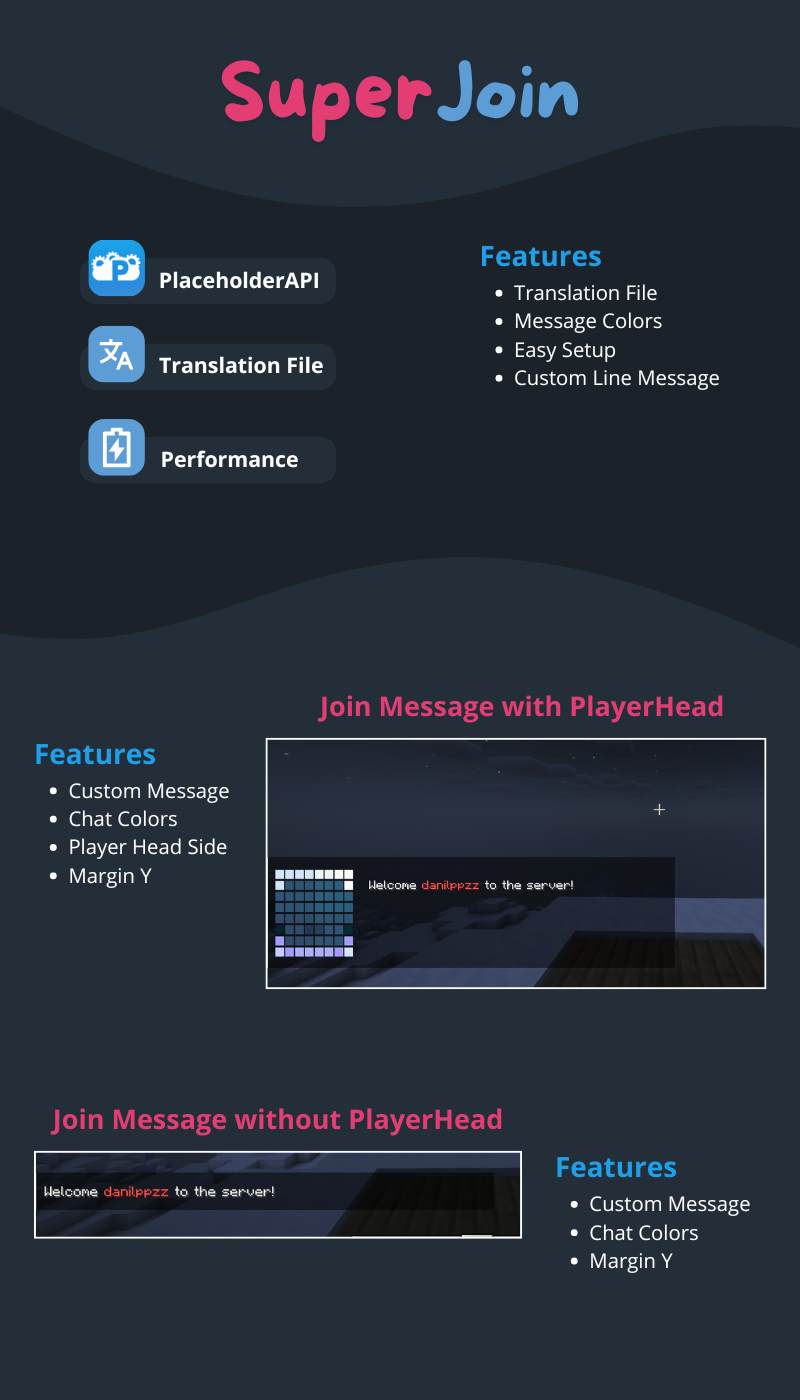
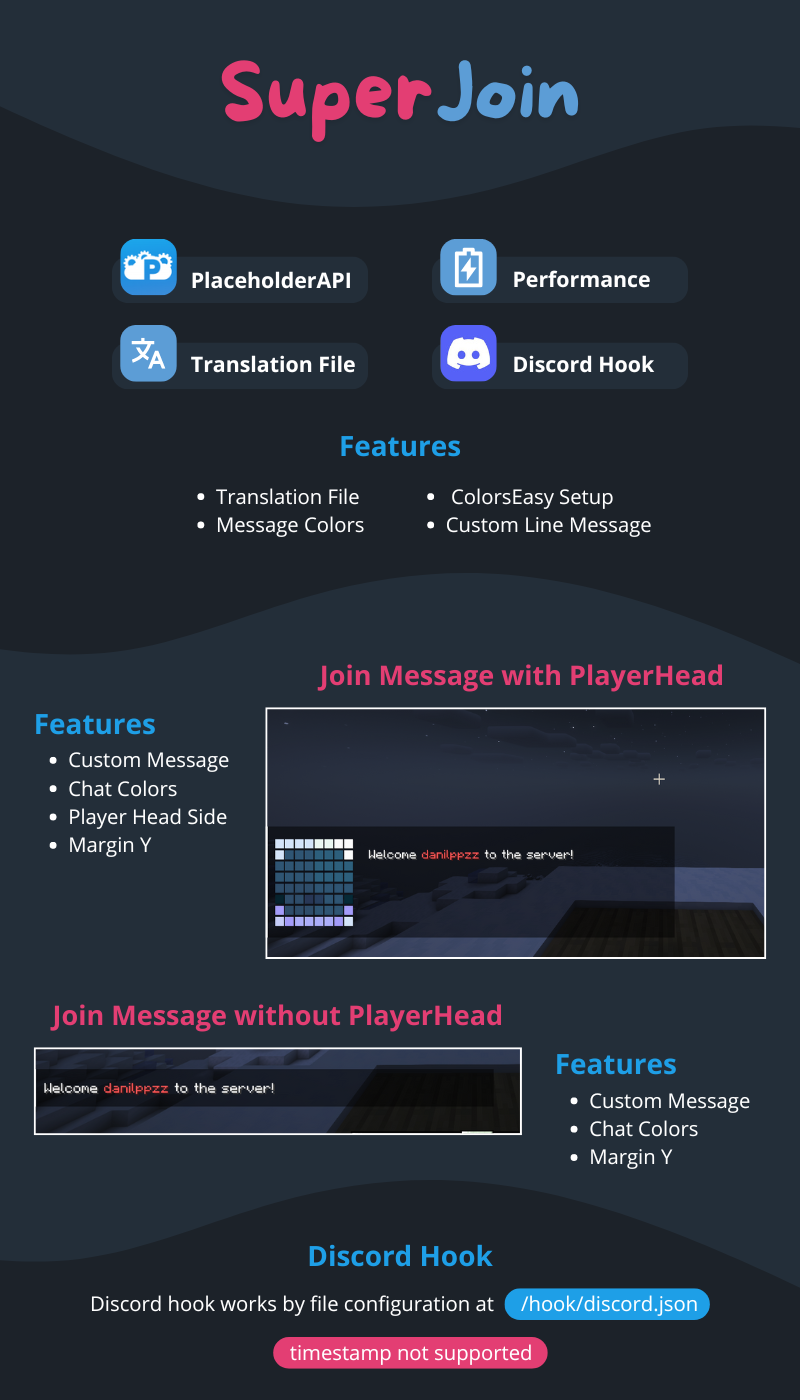
Discord Hook Integration

diff --git a/src/main/java/dev/danilppzz/superjoin/events/DiscordHook.java b/src/main/java/dev/danilppzz/superjoin/events/DiscordHook.java
@@ -1,0 +1,56 @@
+package dev.danilppzz.superjoin.events;
+
+import dev.danilppzz.superjoin.SuperJoin;
+import me.clip.placeholderapi.PlaceholderAPI;
+import org.bukkit.entity.Player;
+import org.bukkit.plugin.java.JavaPlugin;
+
+import java.io.BufferedReader;
+import java.io.File;
+import java.io.FileReader;
+import java.io.OutputStream;
+import java.net.HttpURLConnection;
+import java.net.URL;
+
+public class DiscordHook {
+
+    private static final String WEBHOOK_URL = SuperJoin.getInstance().getConfig().getString("discord_hook.hook_url");
+    public static void join(Player player) {
+        try {
+            File jsonFile = new File(SuperJoin.getInstance().getDataFolder(), "hook/discord.json");
+
+            String jsonPayload = readJsonFromFile(jsonFile);
+
+            jsonPayload = PlaceholderAPI.setPlaceholders(player, jsonPayload);
+
+            URL url = new URL(WEBHOOK_URL);
+            HttpURLConnection connection = (HttpURLConnection) url.openConnection();
+
+            connection.setRequestMethod("POST");
+            connection.setRequestProperty("Content-Type", "application/json; utf-8");
+            connection.setRequestProperty("Accept", "application/json");
+            connection.setDoOutput(true);
+
+            try (OutputStream os = connection.getOutputStream()) {
+                byte[] input = jsonPayload.getBytes("utf-8");
+                os.write(input, 0, input.length);
+            }
+
+            int responseCode = connection.getResponseCode();
+
+        } catch (Exception e) {
+            e.printStackTrace();
+        }
+    }
+
+    private static String readJsonFromFile(File file) throws Exception {
+        StringBuilder contentBuilder = new StringBuilder();
+        try (BufferedReader br = new BufferedReader(new FileReader(file))) {
+            String sCurrentLine;
+            while ((sCurrentLine = br.readLine()) != null) {
+                contentBuilder.append(sCurrentLine);
+            }
+        }
+        return contentBuilder.toString();
+    }
+}

diff --git a/src/main/java/dev/danilppzz/superjoin/MainCommand.java b/src/main/java/dev/danilppzz/superjoin/MainCommand.java
@@ -15,7 +15,7 @@ public class MainCommand implements CommandExecutor, TabCompleter {
     public boolean onCommand(@NotNull CommandSender sender, @NotNull Command command, @NotNull String string, String[] args) {
         if (args[0].equalsIgnoreCase("reload") && hasPermission(sender, "superjoin.reload")) {
             SuperJoin.getInstance().reloadConfig();
-            sender.sendMessage(HexColor.write("&8[#E99A10SUPERJOIN&8] "+SuperJoin.getInstance().getConfig().getString("translation.reload_command")));
+            sender.sendMessage(HexColor.write("&8[#5D9CD6SUPERJOIN&8] "+SuperJoin.getInstance().getConfig().getString("translation.reload_command")));
         }
         return false;
     }
@@ -24,7 +24,7 @@ public class MainCommand implements CommandExecutor, TabCompleter {
         if (sender.hasPermission(permission)) {
             return true;
         } else {
-            sender.sendMessage(HexColor.write("&8[&cSUPERJOIN&8] "+SuperJoin.getInstance().getConfig().getString("translation.err_permission")));
+            sender.sendMessage(HexColor.write("&8[&cSUPERJOIN&8] "+SuperJoin.getInstance().getConfig().getString("translation.error_permission")));
             return false;
         }
     }

diff --git a/src/main/java/dev/danilppzz/superjoin/events/PlayerJoin.java b/src/main/java/dev/danilppzz/superjoin/events/PlayerJoin.java
@@ -91,6 +91,10 @@ public class PlayerJoin implements Listener {
         event.setJoinMessage(null);
         Player player = event.getPlayer();
 
+        if (SuperJoin.getInstance().getConfig().getBoolean("discord_hook.enabled")) {
+            DiscordHook.join(player);
+        }
+
         if (SuperJoin.getInstance().getConfig().getBoolean("join_message.player_head_join_message")) {
             BufferedImage image = PlayerHead.get(player.getUniqueId().toString());
             if (SuperJoin.getInstance().getConfig().getBoolean("join_message.use_margin")) {
@@ -110,11 +114,5 @@ public class PlayerJoin implements Listener {
                 event.getPlayer().sendMessage(PlaceholderAPI.setPlaceholders(player, HexColor.write("&f "+message)));
             }
         }
-    }
-
-    @EventHandler
-    public void onSendMessage(AsyncPlayerChatEvent event) throws IOException {
-        event.setCancelled(true);
-        event.getPlayer().sendMessage(HexColor.write(event.getMessage()));
     }
 }
